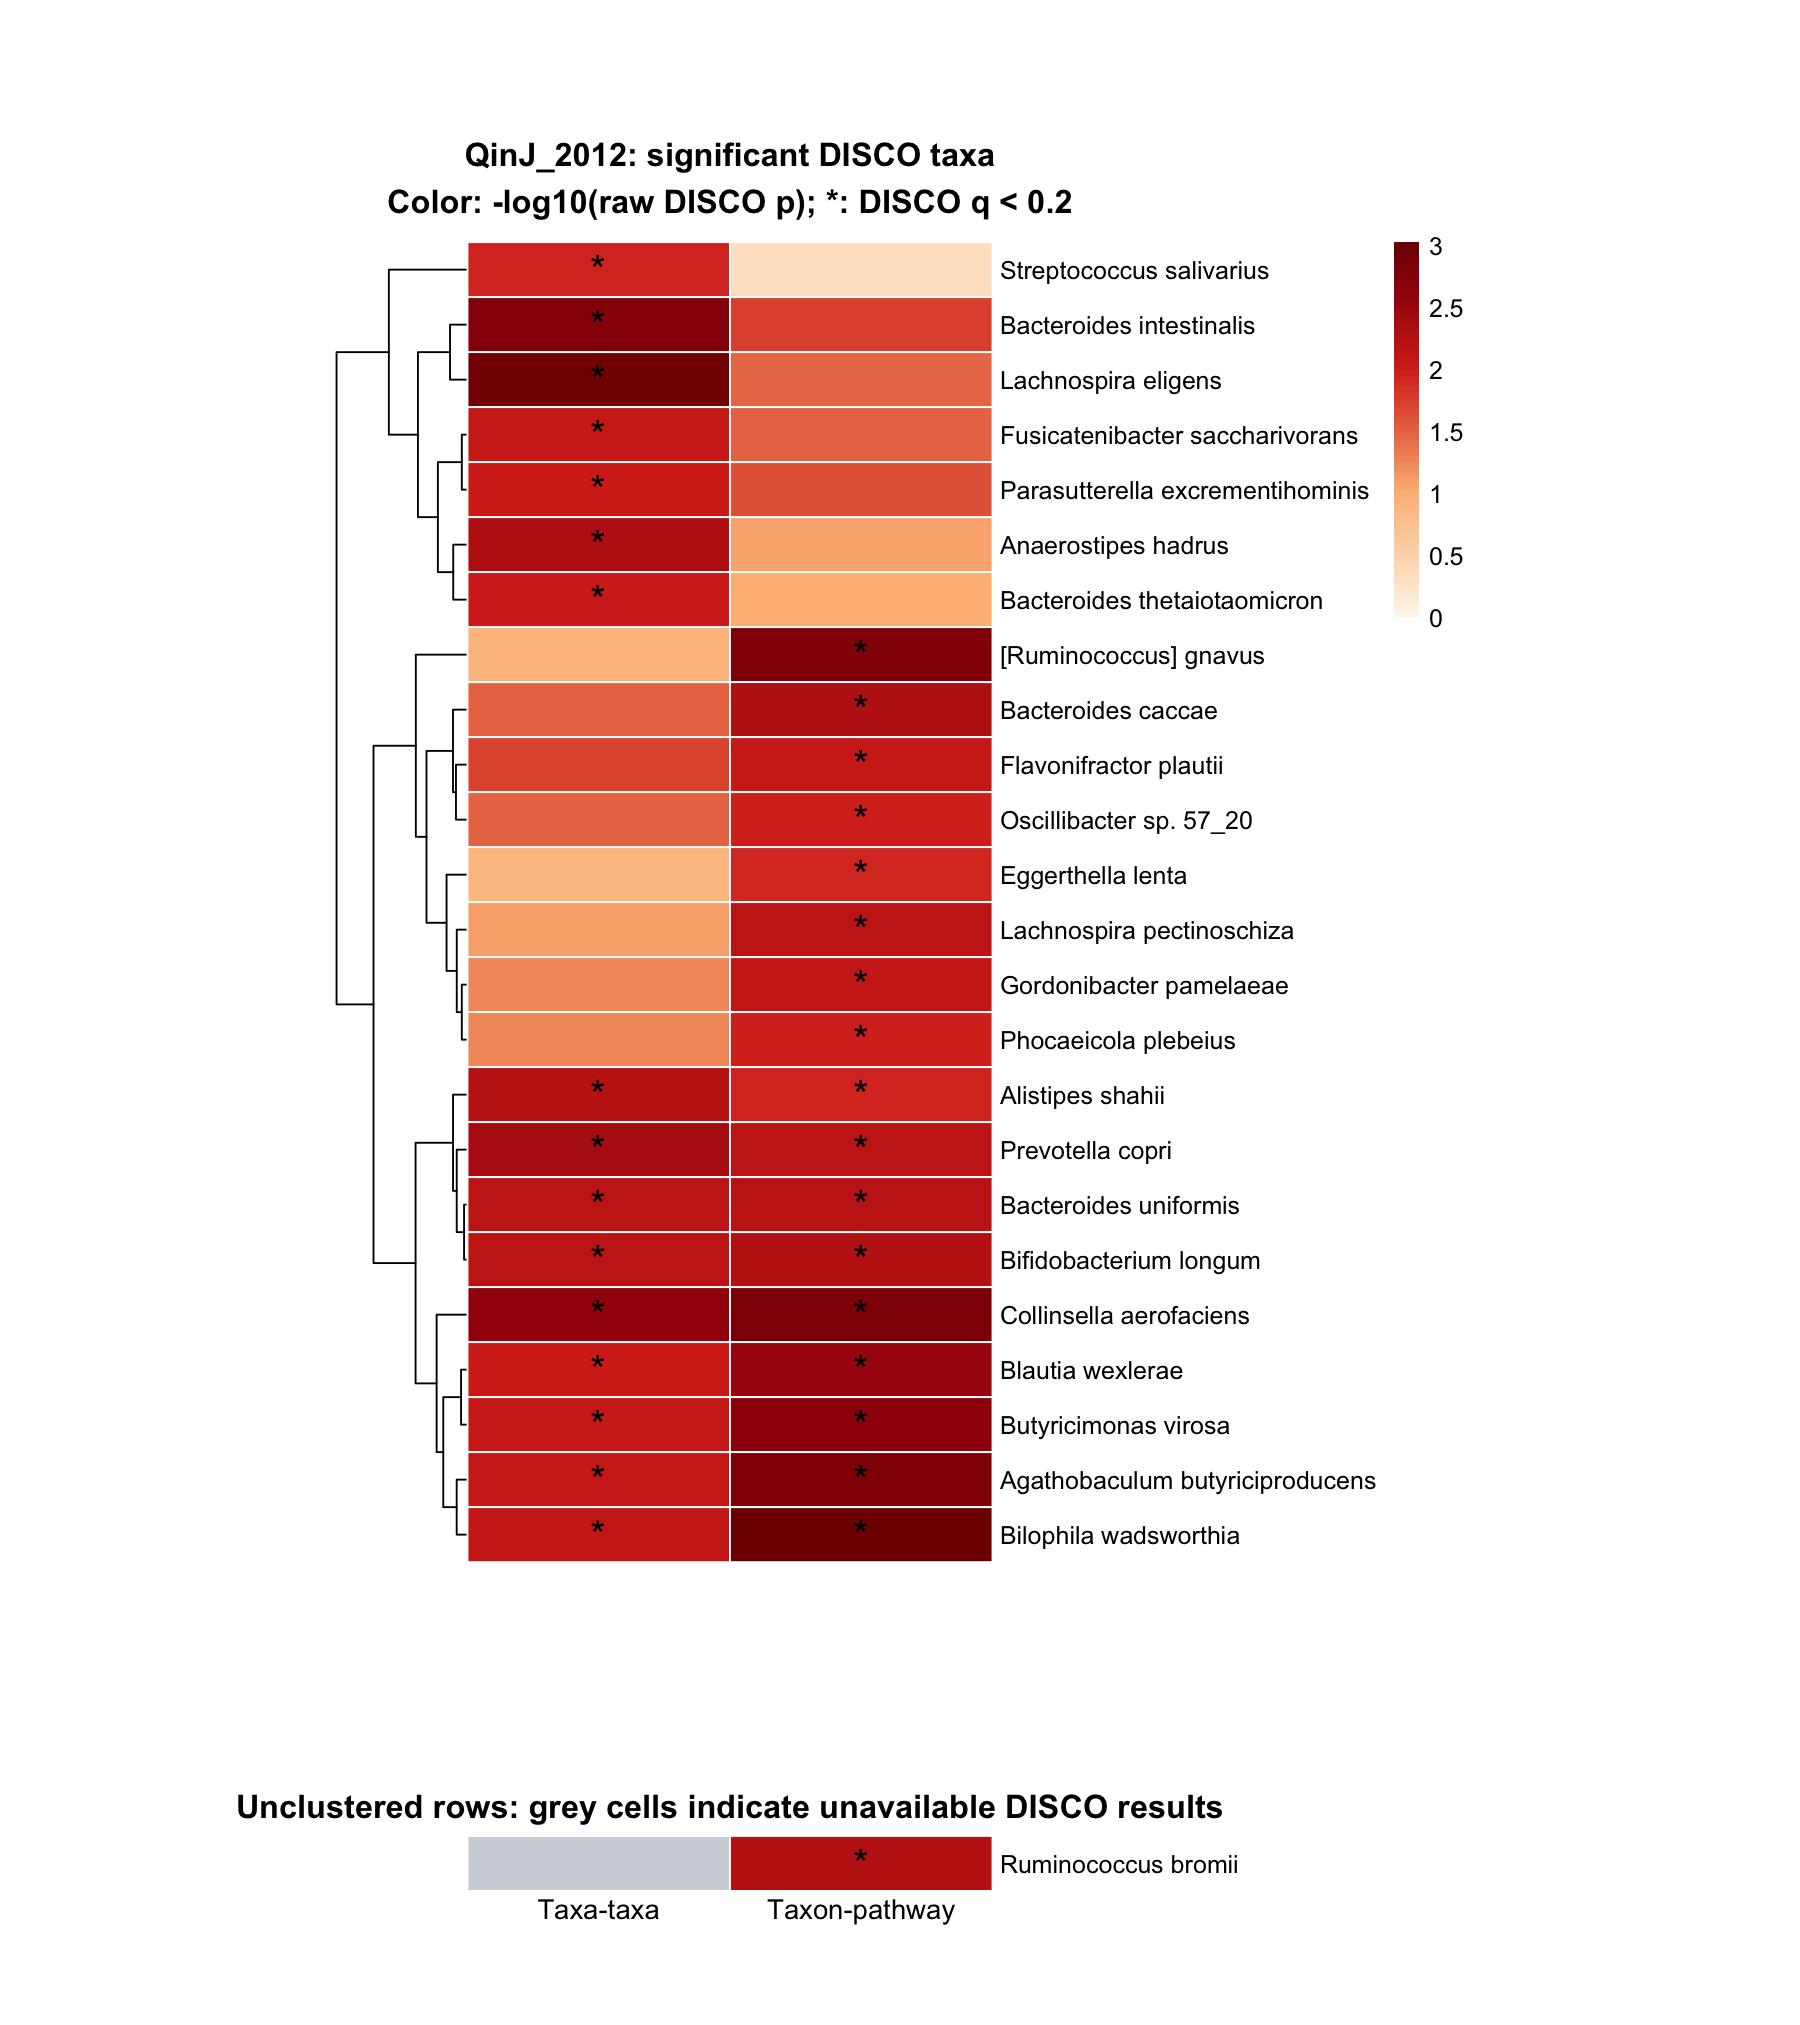
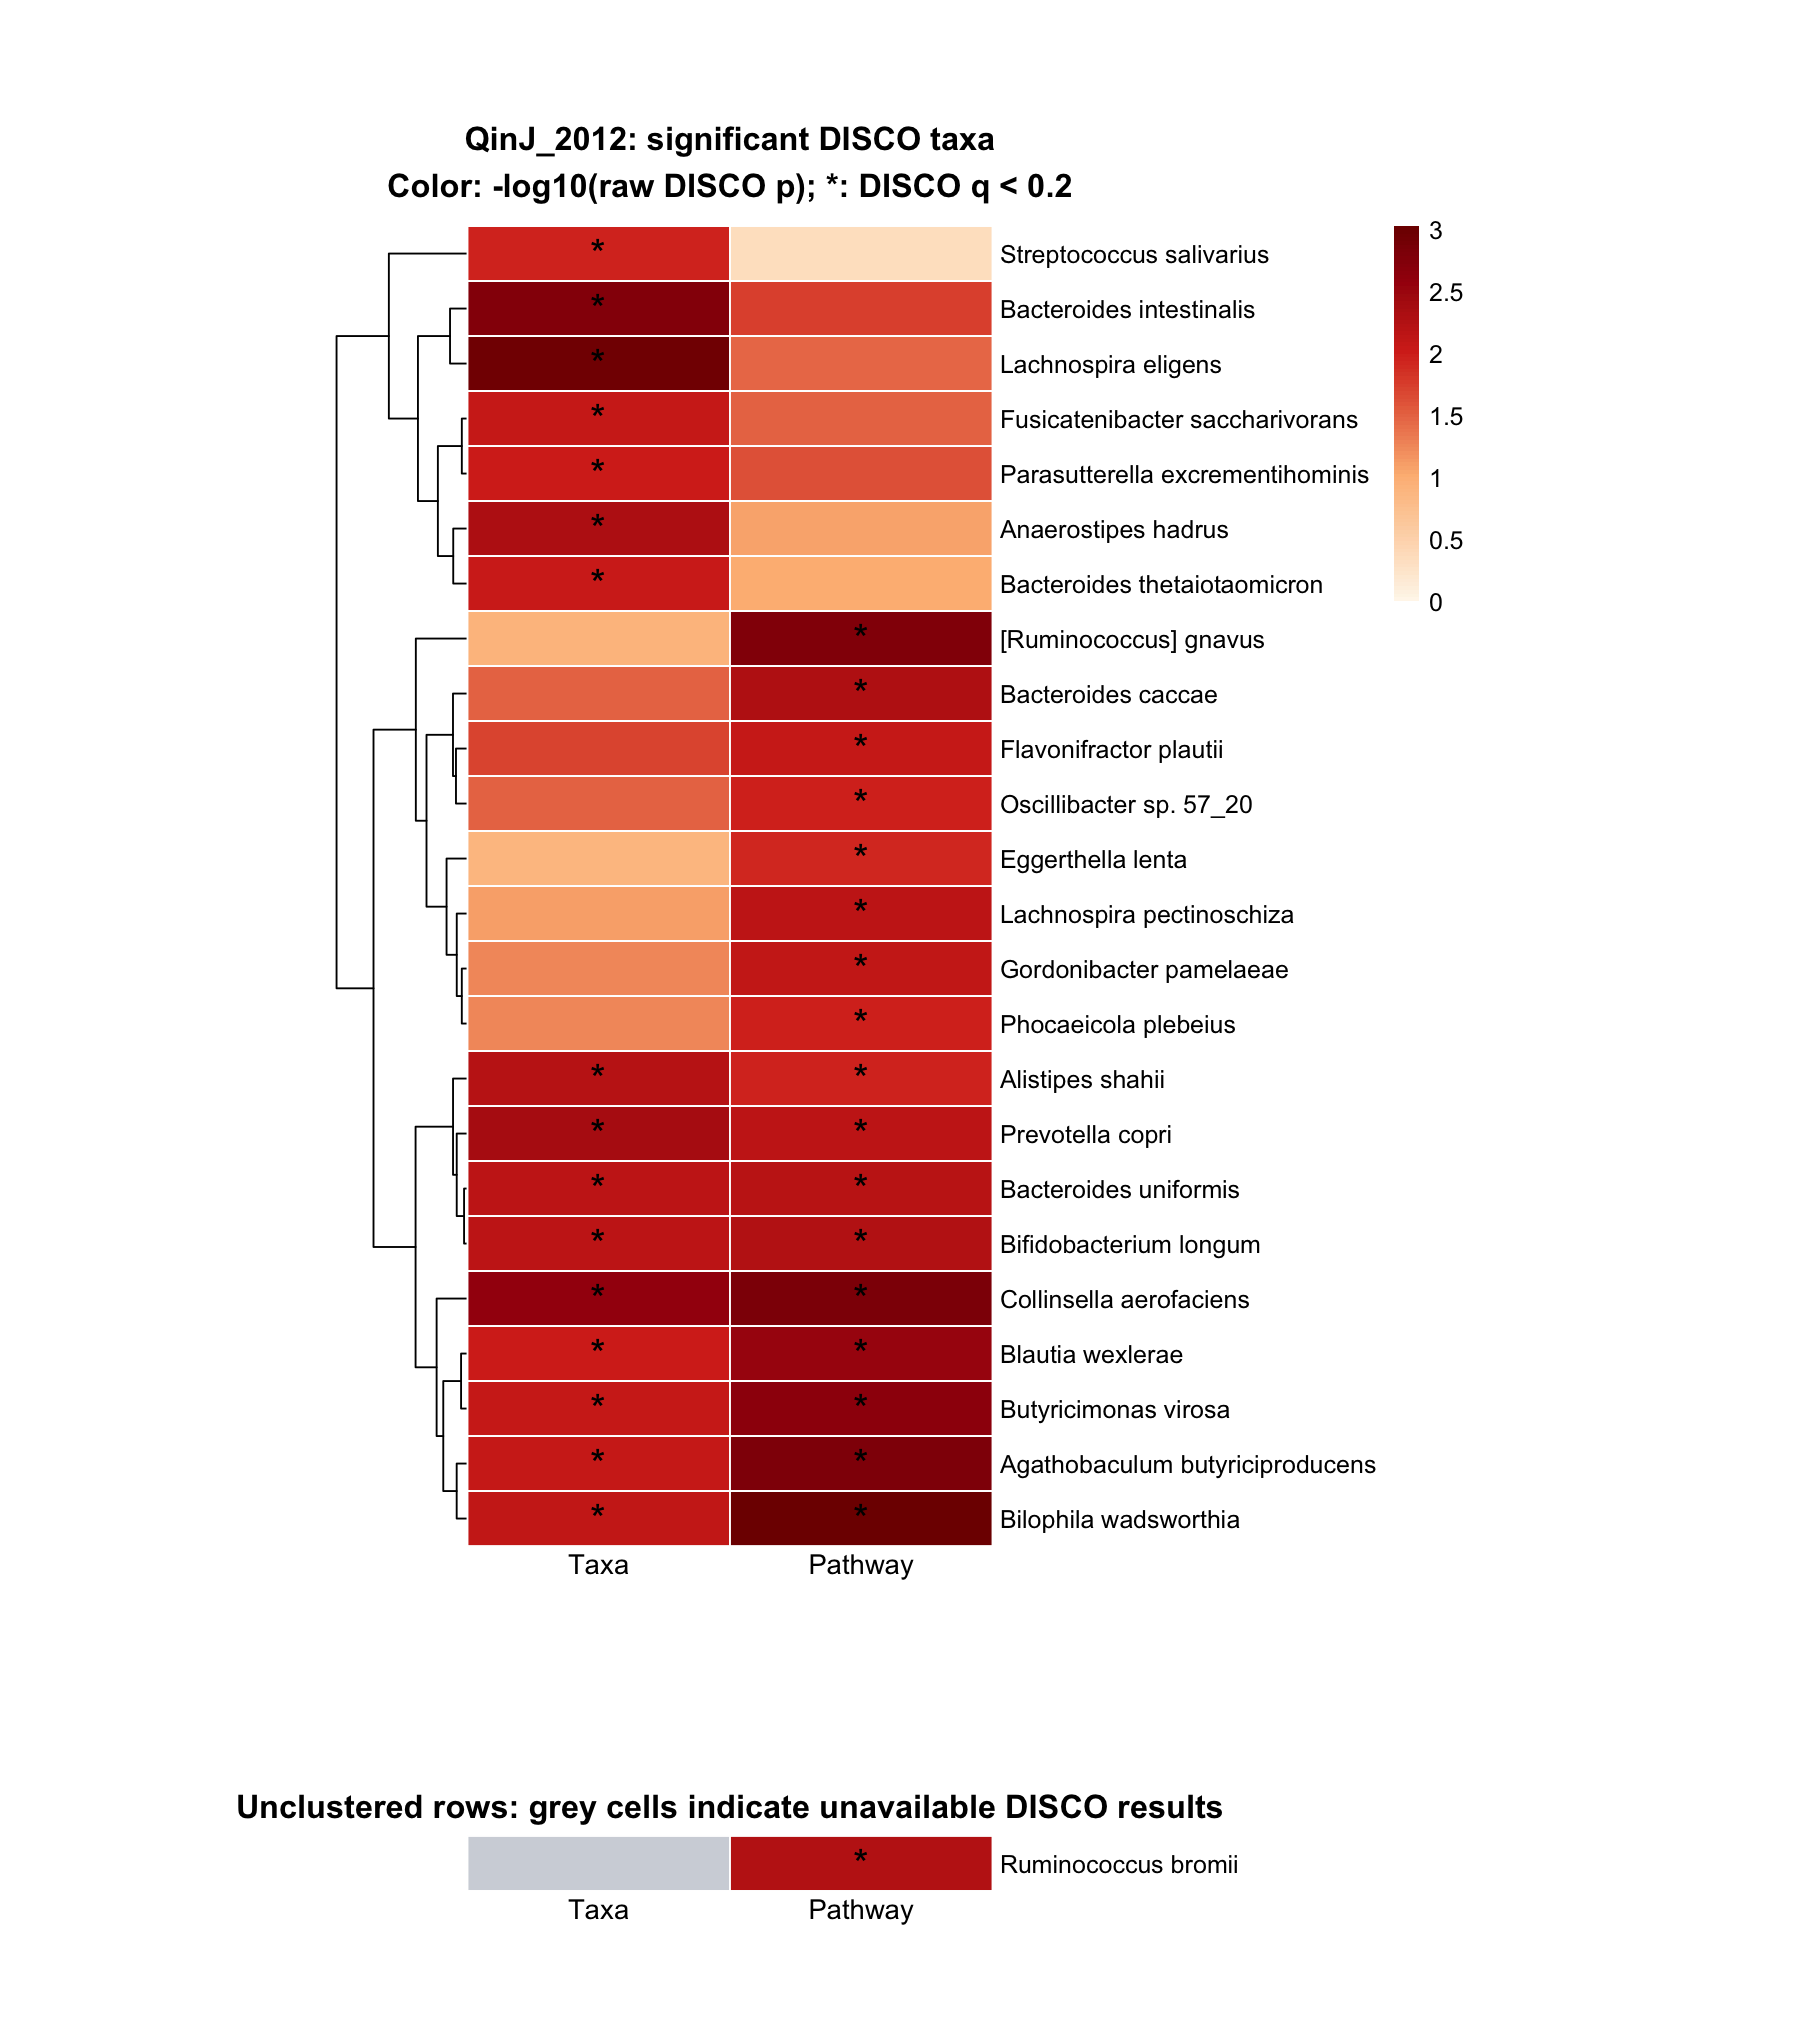
heatmap corrected

diff --git a/README.md b/README.md
@@ -110,7 +110,7 @@ the observed data and in each permutation. Then, a global permutation
 test compares the maximum observed discovery percentage across
 thresholds with the corresponding maximum from each valid permutation:
 
-```text
+``` text
 global p = (1 + number of null maxima >= real maximum) / (1 + valid permutations)
 ```
 
@@ -506,10 +506,17 @@ percentages are diagnostics, not formal feature-level FDR estimates.
 The network highlights the **top ten significant taxa**, ranked by DISCO
 q, then p. Edges are selected by **raw differential-correlation p \<
 0.05** from the saved pair table after DISCO’s selected correlation
-filter (diff_cor.csv). The panels share nodes, edges, and positions;
-red/blue indicate positive/negative group correlations, and edge width
-shows \|Spearman r\|. Edge presence does not imply within-group
-correlation significance.
+filter. The panels share nodes, edges, and positions; red/blue indicate
+positive/negative group correlations, and edge width shows \|Spearman
+r\|. Edge presence does not imply within-group correlation significance.
+
+Correlation source:
+[QinJ_2012_taxa_cor_diff.csv](analysis/qinj_readme_results/taxa/QinJ_2012_taxa_cor_diff.csv).
+Its columns identify the pair (`t1`, `t2`), control/T2D Spearman
+correlations (`r1`, `r2`), complete-pair sample counts (`n1`, `n2`), and
+differential-correlation `p` and `q`. The exact subset drawn as edges is
+saved in
+[network_edges.csv](analysis/qinj_taxa_networks/network_edges.csv).
 
 <img src="man/figures/README-qinj-taxa-network.png" alt="" width="100%" />
 
@@ -521,6 +528,15 @@ plot uses the exact adjusted inputs passed to DISCO and only complete
 pairs. Its annotations report saved Spearman correlations and paired
 sample counts; dashed linear fits are visual guides. The displayed pair
 p/q are distinct from the feature-level DISCO results above.
+
+Pair statistics come from
+[QinJ_2012_taxa_cor_diff.csv](analysis/qinj_readme_results/taxa/QinJ_2012_taxa_cor_diff.csv);
+the selected pairs and their annotations are exported in
+[top10_pairs.csv](analysis/qinj_differential_scatterplots/top10_pairs.csv).
+The plotted sample values are exported in
+[scatterplot_data.csv](analysis/qinj_differential_scatterplots/scatterplot_data.csv),
+extracted from the adjusted matrices in
+[disco_inputs.rds](analysis/qinj_readme_results/taxa/disco_inputs.rds).
 
 <img src="man/figures/README-qinj-taxa-scatterplot.png" alt="" width="100%" />
 
@@ -640,6 +656,13 @@ Both panels use identical nodes, edges, and positions. Edge colors and
 widths show the group-specific Spearman correlations, as in the
 taxa-only network.
 
+Correlation source:
+[QinJ_2012_taxa_pathways_cor_diff.csv](analysis/qinj_readme_results/taxa_pathways/QinJ_2012_taxa_pathways_cor_diff.csv).
+Here `t1` is the taxon and `t2` is the pathway; `r1`/`r2`, `n1`/`n2`,
+and `p`/`q` have the same meanings as in the taxa-only pair table. The
+exact plotted edge subset is exported in
+[network_edges.csv](analysis/qinj_taxa_pathway_networks/network_edges.csv).
+
 <img src="man/figures/README-qinj-taxa_pathways-network.png" alt="" width="100%" />
 
 ### Example pairwise scatterplot
@@ -650,6 +673,16 @@ The plotted values are the separately adjusted robust CLR taxon and
 pathway measurements, with complete pairs only. Saved group Spearman
 correlations, sample counts, and pair-level differential p/q are shown;
 dashed lines remain visual guides.
+
+Pair statistics come from
+[QinJ_2012_taxa_pathways_cor_diff.csv](analysis/qinj_readme_results/taxa_pathways/QinJ_2012_taxa_pathways_cor_diff.csv).
+The selected example and its annotations are saved in
+[top1_pairs.csv](analysis/qinj_taxa_pathway_scatterplots/top1_pairs.csv),
+and its sample values are exported in
+[scatterplot_data.csv](analysis/qinj_taxa_pathway_scatterplots/scatterplot_data.csv).
+Those values are extracted from the adjusted taxon and pathway matrices
+in
+[disco_inputs.rds](analysis/qinj_readme_results/taxa_pathways/disco_inputs.rds).
 
 <img src="man/figures/README-qinj-taxa_pathways-scatterplot.png" alt="" width="100%" />
 
